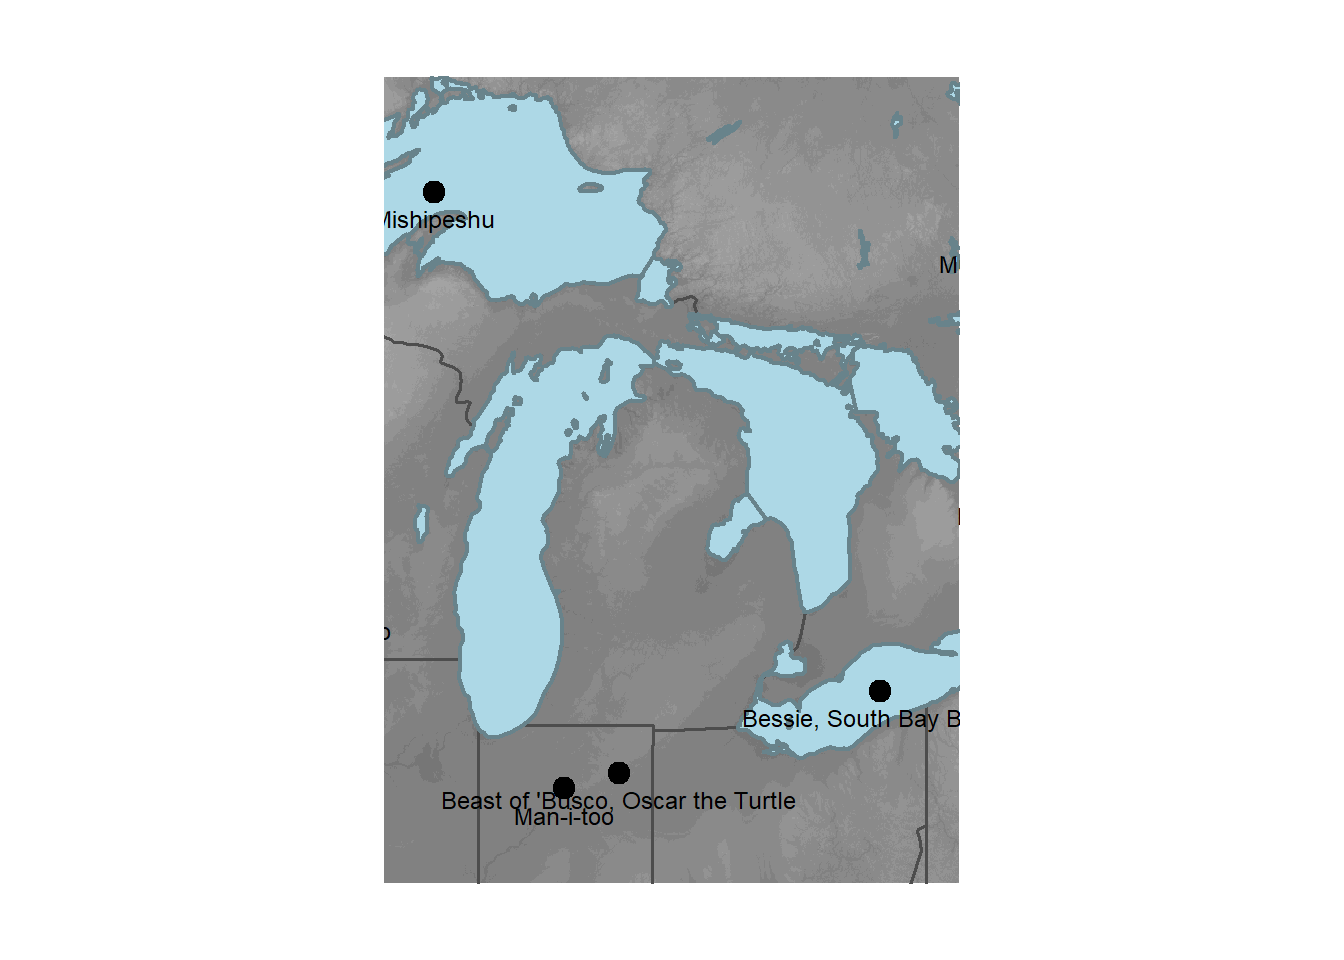
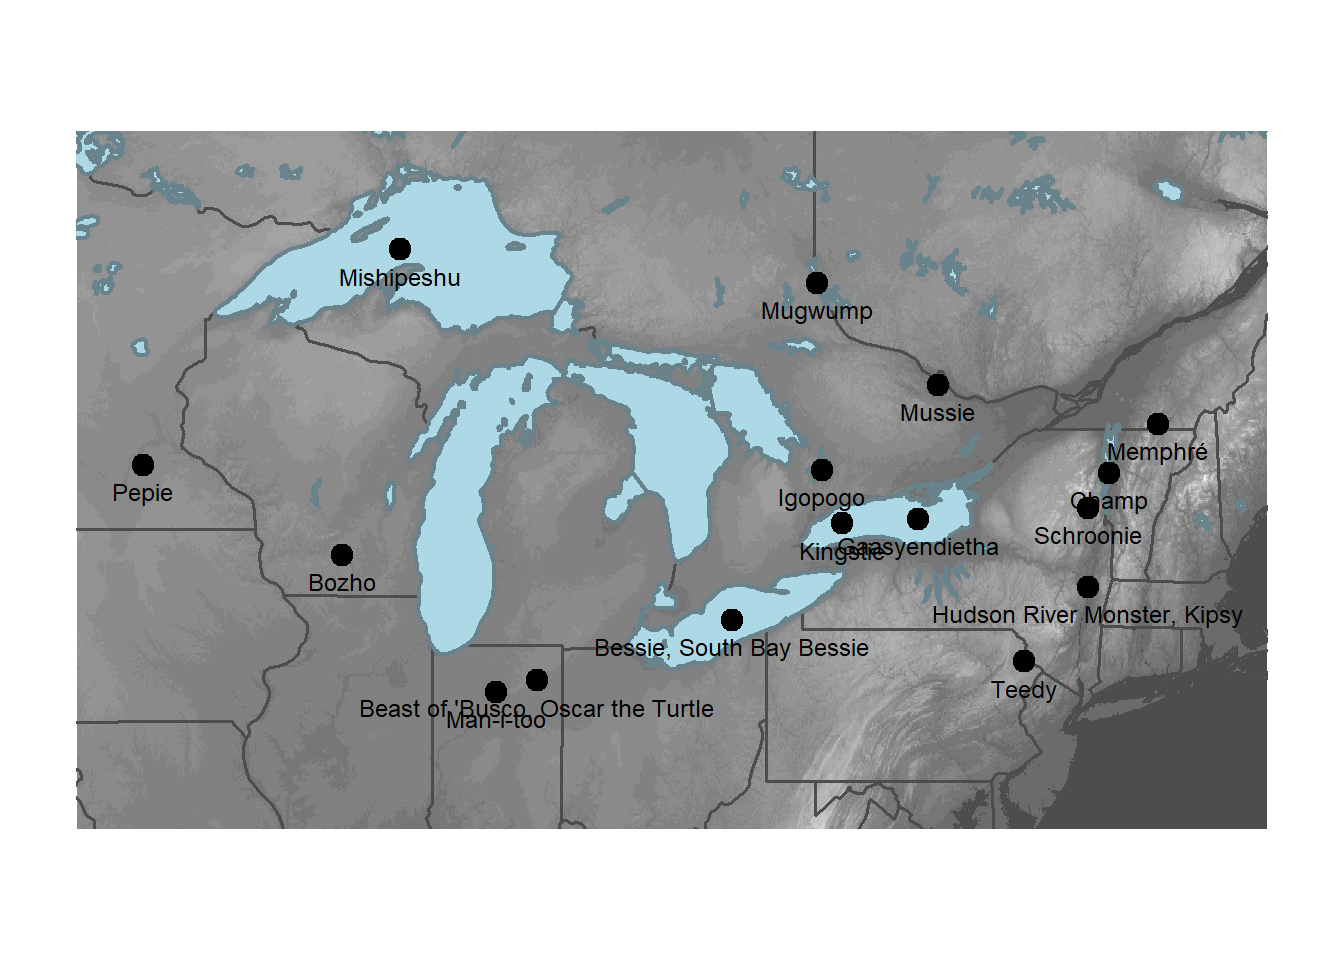
update bounding box for raster base plot

diff --git a/docs/chapters/Base_R.html b/docs/chapters/Base_R.html
@@ -374,44 +374,47 @@ pre > code.sourceCode > span > a:first-child::before { text-decoration: underlin
 <h2 data-number="2.5" class="anchored" data-anchor-id="add-raster-data"><span class="header-section-number">2.5</span> Add Raster Data</h2>
 <p>Having the state outlines as background information is clean and simple, but perhaps we want to include some information about the physical environment in which these monsters are found. A digital elevation model (DEM) will give us an indication of where the higher elevations are and the complexity of the landscape.</p>
 <div class="cell">
-<div class="sourceCode cell-code" id="cb8"><pre class="sourceCode r code-with-copy"><code class="sourceCode r"><span id="cb8-1"><a href="#cb8-1" aria-hidden="true" tabindex="-1"></a>    dem_aoi <span class="ot">&lt;-</span> <span class="fu">crop</span>(dem, aoi) <span class="co">#crop the DEM to the AOI because you can't set the extent with terra::plot()</span></span>
-<span id="cb8-2"><a href="#cb8-2" aria-hidden="true" tabindex="-1"></a></span>
-<span id="cb8-3"><a href="#cb8-3" aria-hidden="true" tabindex="-1"></a>    <span class="fu">options</span>(<span class="at">terra.pal=</span><span class="fu">gray.colors</span>(<span class="dv">20</span>)) <span class="co">#set the colors for the raster</span></span>
-<span id="cb8-4"><a href="#cb8-4" aria-hidden="true" tabindex="-1"></a></span>
-<span id="cb8-5"><a href="#cb8-5" aria-hidden="true" tabindex="-1"></a>    <span class="fu">plot</span>(dem_aoi,                <span class="co">#plot the cropped raster</span></span>
-<span id="cb8-6"><a href="#cb8-6" aria-hidden="true" tabindex="-1"></a>         <span class="at">legend =</span> <span class="cn">FALSE</span>,         <span class="co">#turn off the legend</span></span>
-<span id="cb8-7"><a href="#cb8-7" aria-hidden="true" tabindex="-1"></a>         <span class="at">axes =</span> <span class="cn">FALSE</span>,           <span class="co">#turn off the lat/long ticks</span></span>
-<span id="cb8-8"><a href="#cb8-8" aria-hidden="true" tabindex="-1"></a>                                 <span class="co">#set the break points on the color ramp: min, high water line, then divide up the rest evenly</span></span>
-<span id="cb8-9"><a href="#cb8-9" aria-hidden="true" tabindex="-1"></a>         <span class="at">breaks =</span> <span class="fu">c</span>(</span>
-<span id="cb8-10"><a href="#cb8-10" aria-hidden="true" tabindex="-1"></a>         <span class="sc">-</span><span class="fl">67.6842</span>, </span>
-<span id="cb8-11"><a href="#cb8-11" aria-hidden="true" tabindex="-1"></a>         <span class="dv">5</span>, </span>
-<span id="cb8-12"><a href="#cb8-12" aria-hidden="true" tabindex="-1"></a>         <span class="fu">seq</span>(<span class="dv">6</span>, <span class="dv">1574</span>, <span class="dv">88</span>)) </span>
-<span id="cb8-13"><a href="#cb8-13" aria-hidden="true" tabindex="-1"></a>         )</span>
-<span id="cb8-14"><a href="#cb8-14" aria-hidden="true" tabindex="-1"></a></span>
-<span id="cb8-15"><a href="#cb8-15" aria-hidden="true" tabindex="-1"></a>    <span class="fu">plot</span>(</span>
-<span id="cb8-16"><a href="#cb8-16" aria-hidden="true" tabindex="-1"></a>      <span class="fu">st_geometry</span>(states),       </span>
-<span id="cb8-17"><a href="#cb8-17" aria-hidden="true" tabindex="-1"></a>      <span class="co">#col="white",              #comment out fill color for transparent fill</span></span>
-<span id="cb8-18"><a href="#cb8-18" aria-hidden="true" tabindex="-1"></a>      <span class="at">border=</span><span class="st">"gray30"</span>,           </span>
-<span id="cb8-19"><a href="#cb8-19" aria-hidden="true" tabindex="-1"></a>      <span class="at">lwd =</span> <span class="fl">1.5</span>,</span>
-<span id="cb8-20"><a href="#cb8-20" aria-hidden="true" tabindex="-1"></a>      <span class="at">bg=</span><span class="st">"lightblue3"</span>,            </span>
-<span id="cb8-21"><a href="#cb8-21" aria-hidden="true" tabindex="-1"></a>      <span class="at">add=</span><span class="cn">TRUE</span></span>
-<span id="cb8-22"><a href="#cb8-22" aria-hidden="true" tabindex="-1"></a>    )   </span>
-<span id="cb8-23"><a href="#cb8-23" aria-hidden="true" tabindex="-1"></a></span>
-<span id="cb8-24"><a href="#cb8-24" aria-hidden="true" tabindex="-1"></a>    <span class="fu">plot</span>(<span class="fu">st_geometry</span>(lakes), </span>
-<span id="cb8-25"><a href="#cb8-25" aria-hidden="true" tabindex="-1"></a>         <span class="at">col=</span><span class="st">"lightblue"</span>,</span>
-<span id="cb8-26"><a href="#cb8-26" aria-hidden="true" tabindex="-1"></a>         <span class="at">border=</span><span class="st">"lightblue4"</span>,</span>
-<span id="cb8-27"><a href="#cb8-27" aria-hidden="true" tabindex="-1"></a>         <span class="at">lwd=</span><span class="dv">2</span>,                  </span>
-<span id="cb8-28"><a href="#cb8-28" aria-hidden="true" tabindex="-1"></a>         <span class="at">add=</span><span class="cn">TRUE</span>)</span>
-<span id="cb8-29"><a href="#cb8-29" aria-hidden="true" tabindex="-1"></a></span>
-<span id="cb8-30"><a href="#cb8-30" aria-hidden="true" tabindex="-1"></a>    <span class="fu">plot</span>(<span class="fu">st_geometry</span>(monsters), </span>
-<span id="cb8-31"><a href="#cb8-31" aria-hidden="true" tabindex="-1"></a>         <span class="at">pch =</span> <span class="dv">19</span>,               </span>
-<span id="cb8-32"><a href="#cb8-32" aria-hidden="true" tabindex="-1"></a>         <span class="at">cex =</span> <span class="fl">1.5</span>,               </span>
-<span id="cb8-33"><a href="#cb8-33" aria-hidden="true" tabindex="-1"></a>         <span class="at">add=</span><span class="cn">TRUE</span>)</span>
-<span id="cb8-34"><a href="#cb8-34" aria-hidden="true" tabindex="-1"></a></span>
-<span id="cb8-35"><a href="#cb8-35" aria-hidden="true" tabindex="-1"></a>    <span class="fu">text</span>(monsters,               </span>
-<span id="cb8-36"><a href="#cb8-36" aria-hidden="true" tabindex="-1"></a>         monsters<span class="sc">$</span>Name,          </span>
-<span id="cb8-37"><a href="#cb8-37" aria-hidden="true" tabindex="-1"></a>         <span class="at">cex =</span> <span class="fl">0.75</span>,             </span>
-<span id="cb8-38"><a href="#cb8-38" aria-hidden="true" tabindex="-1"></a>         <span class="at">pos =</span> <span class="dv">1</span>)                </span></code><button title="Copy to Clipboard" class="code-copy-button"><i class="bi"></i></button></pre></div>
+<div class="sourceCode cell-code" id="cb8"><pre class="sourceCode r code-with-copy"><code class="sourceCode r"><span id="cb8-1"><a href="#cb8-1" aria-hidden="true" tabindex="-1"></a>  <span class="co">#create a bounding box object for the zoom area of our map</span></span>
+<span id="cb8-2"><a href="#cb8-2" aria-hidden="true" tabindex="-1"></a>  aoi <span class="ot">&lt;-</span> <span class="fu">st_bbox</span>(<span class="fu">c</span>(<span class="at">xmin =</span> <span class="sc">-</span><span class="dv">95</span>, <span class="at">xmax =</span> <span class="sc">-</span><span class="dv">70</span>, <span class="at">ymax =</span> <span class="fl">49.5</span>, <span class="at">ymin =</span> <span class="dv">39</span>), <span class="at">crs =</span> <span class="fu">st_crs</span>(<span class="dv">4326</span>))</span>
+<span id="cb8-3"><a href="#cb8-3" aria-hidden="true" tabindex="-1"></a></span>
+<span id="cb8-4"><a href="#cb8-4" aria-hidden="true" tabindex="-1"></a>    dem_aoi <span class="ot">&lt;-</span> <span class="fu">crop</span>(dem, aoi) <span class="co">#crop the DEM to the AOI because you can't set the extent with terra::plot()</span></span>
+<span id="cb8-5"><a href="#cb8-5" aria-hidden="true" tabindex="-1"></a></span>
+<span id="cb8-6"><a href="#cb8-6" aria-hidden="true" tabindex="-1"></a>    <span class="fu">options</span>(<span class="at">terra.pal=</span><span class="fu">gray.colors</span>(<span class="dv">20</span>)) <span class="co">#set the colors for the raster</span></span>
+<span id="cb8-7"><a href="#cb8-7" aria-hidden="true" tabindex="-1"></a></span>
+<span id="cb8-8"><a href="#cb8-8" aria-hidden="true" tabindex="-1"></a>    <span class="fu">plot</span>(dem_aoi,                <span class="co">#plot the cropped raster</span></span>
+<span id="cb8-9"><a href="#cb8-9" aria-hidden="true" tabindex="-1"></a>         <span class="at">legend =</span> <span class="cn">FALSE</span>,         <span class="co">#turn off the legend</span></span>
+<span id="cb8-10"><a href="#cb8-10" aria-hidden="true" tabindex="-1"></a>         <span class="at">axes =</span> <span class="cn">FALSE</span>,           <span class="co">#turn off the lat/long ticks</span></span>
+<span id="cb8-11"><a href="#cb8-11" aria-hidden="true" tabindex="-1"></a>                                 <span class="co">#set the break points on the color ramp: min, high water line, then divide up the rest evenly</span></span>
+<span id="cb8-12"><a href="#cb8-12" aria-hidden="true" tabindex="-1"></a>         <span class="at">breaks =</span> <span class="fu">c</span>(</span>
+<span id="cb8-13"><a href="#cb8-13" aria-hidden="true" tabindex="-1"></a>         <span class="sc">-</span><span class="fl">67.6842</span>, </span>
+<span id="cb8-14"><a href="#cb8-14" aria-hidden="true" tabindex="-1"></a>         <span class="dv">5</span>, </span>
+<span id="cb8-15"><a href="#cb8-15" aria-hidden="true" tabindex="-1"></a>         <span class="fu">seq</span>(<span class="dv">6</span>, <span class="dv">1574</span>, <span class="dv">88</span>)) </span>
+<span id="cb8-16"><a href="#cb8-16" aria-hidden="true" tabindex="-1"></a>         )</span>
+<span id="cb8-17"><a href="#cb8-17" aria-hidden="true" tabindex="-1"></a></span>
+<span id="cb8-18"><a href="#cb8-18" aria-hidden="true" tabindex="-1"></a>    <span class="fu">plot</span>(</span>
+<span id="cb8-19"><a href="#cb8-19" aria-hidden="true" tabindex="-1"></a>      <span class="fu">st_geometry</span>(states),       </span>
+<span id="cb8-20"><a href="#cb8-20" aria-hidden="true" tabindex="-1"></a>      <span class="co">#col="white",              #comment out fill color for transparent fill</span></span>
+<span id="cb8-21"><a href="#cb8-21" aria-hidden="true" tabindex="-1"></a>      <span class="at">border=</span><span class="st">"gray30"</span>,           </span>
+<span id="cb8-22"><a href="#cb8-22" aria-hidden="true" tabindex="-1"></a>      <span class="at">lwd =</span> <span class="fl">1.5</span>,</span>
+<span id="cb8-23"><a href="#cb8-23" aria-hidden="true" tabindex="-1"></a>      <span class="at">bg=</span><span class="st">"lightblue3"</span>,            </span>
+<span id="cb8-24"><a href="#cb8-24" aria-hidden="true" tabindex="-1"></a>      <span class="at">add=</span><span class="cn">TRUE</span></span>
+<span id="cb8-25"><a href="#cb8-25" aria-hidden="true" tabindex="-1"></a>    )   </span>
+<span id="cb8-26"><a href="#cb8-26" aria-hidden="true" tabindex="-1"></a></span>
+<span id="cb8-27"><a href="#cb8-27" aria-hidden="true" tabindex="-1"></a>    <span class="fu">plot</span>(<span class="fu">st_geometry</span>(lakes), </span>
+<span id="cb8-28"><a href="#cb8-28" aria-hidden="true" tabindex="-1"></a>         <span class="at">col=</span><span class="st">"lightblue"</span>,</span>
+<span id="cb8-29"><a href="#cb8-29" aria-hidden="true" tabindex="-1"></a>         <span class="at">border=</span><span class="st">"lightblue4"</span>,</span>
+<span id="cb8-30"><a href="#cb8-30" aria-hidden="true" tabindex="-1"></a>         <span class="at">lwd=</span><span class="dv">2</span>,                  </span>
+<span id="cb8-31"><a href="#cb8-31" aria-hidden="true" tabindex="-1"></a>         <span class="at">add=</span><span class="cn">TRUE</span>)</span>
+<span id="cb8-32"><a href="#cb8-32" aria-hidden="true" tabindex="-1"></a></span>
+<span id="cb8-33"><a href="#cb8-33" aria-hidden="true" tabindex="-1"></a>    <span class="fu">plot</span>(<span class="fu">st_geometry</span>(monsters), </span>
+<span id="cb8-34"><a href="#cb8-34" aria-hidden="true" tabindex="-1"></a>         <span class="at">pch =</span> <span class="dv">19</span>,               </span>
+<span id="cb8-35"><a href="#cb8-35" aria-hidden="true" tabindex="-1"></a>         <span class="at">cex =</span> <span class="fl">1.5</span>,               </span>
+<span id="cb8-36"><a href="#cb8-36" aria-hidden="true" tabindex="-1"></a>         <span class="at">add=</span><span class="cn">TRUE</span>)</span>
+<span id="cb8-37"><a href="#cb8-37" aria-hidden="true" tabindex="-1"></a></span>
+<span id="cb8-38"><a href="#cb8-38" aria-hidden="true" tabindex="-1"></a>    <span class="fu">text</span>(monsters,               </span>
+<span id="cb8-39"><a href="#cb8-39" aria-hidden="true" tabindex="-1"></a>         monsters<span class="sc">$</span>Name,          </span>
+<span id="cb8-40"><a href="#cb8-40" aria-hidden="true" tabindex="-1"></a>         <span class="at">cex =</span> <span class="fl">0.75</span>,             </span>
+<span id="cb8-41"><a href="#cb8-41" aria-hidden="true" tabindex="-1"></a>         <span class="at">pos =</span> <span class="dv">1</span>)                </span></code><button title="Copy to Clipboard" class="code-copy-button"><i class="bi"></i></button></pre></div>
 <div class="cell-output-display">
 <div>
 <figure class="figure">
